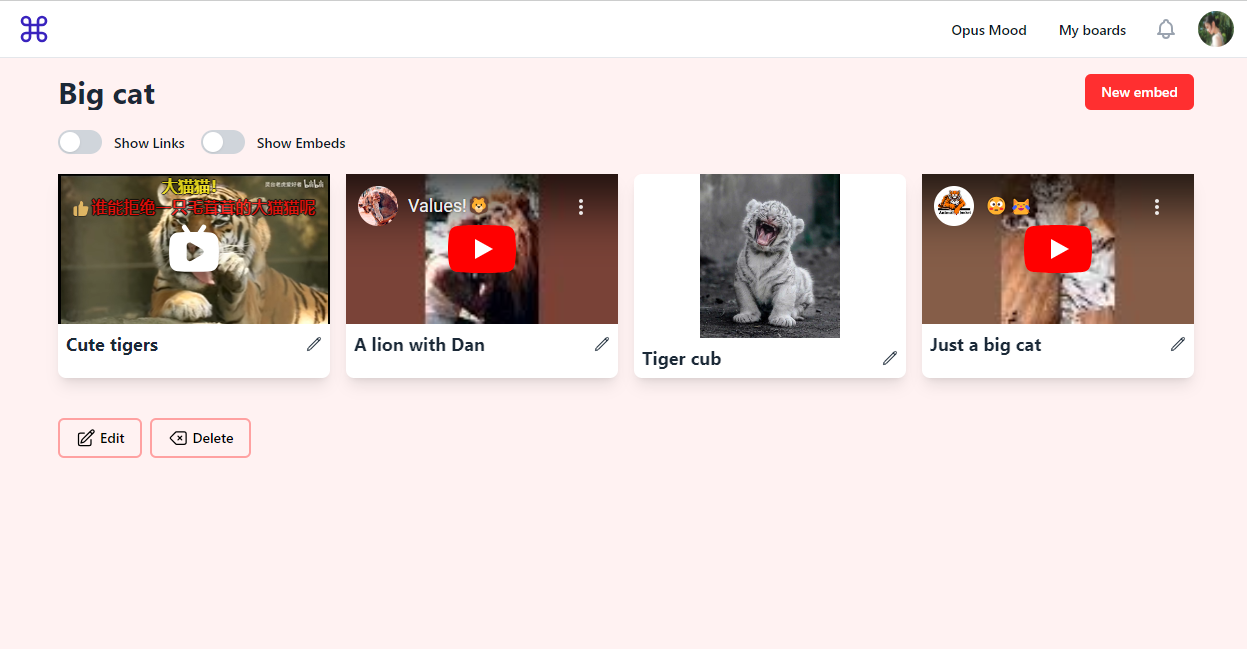
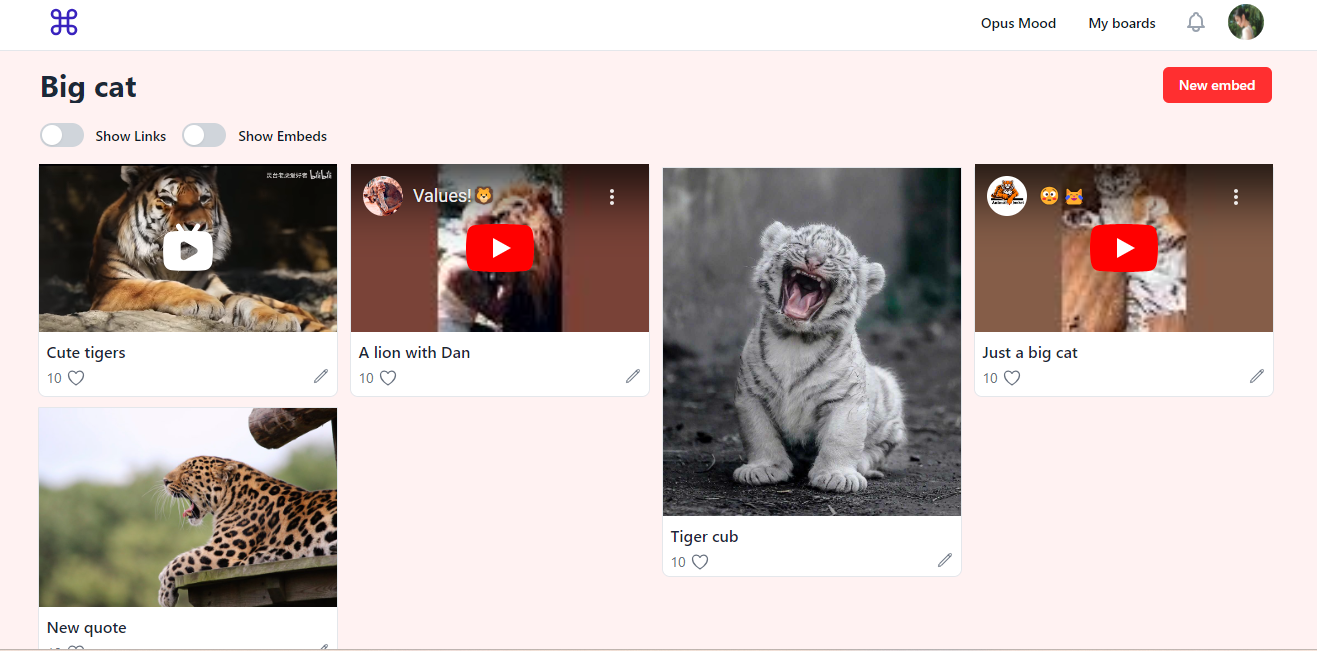
Refector board UI

diff --git a/app/assets/stylesheets/application.tailwind.css b/app/assets/stylesheets/application.tailwind.css
@@ -34,5 +34,16 @@
   }
 }
 
+.board-grid {
+  display: grid;
+  grid-template-columns: repeat(auto-fill, 300px);
+  grid-auto-rows: 30px;
+  grid-column-gap: 12px;
+  justify-content: center;
+}
 
+.card {
+  margin-bottom: 10px;
+  grid-row-end: span 10;
+}
 

diff --git a/app/helpers/embed_helper.rb b/app/helpers/embed_helper.rb
@@ -1,5 +1,20 @@
 module EmbedHelper
+  VIDEO_HEIGHT_SCALE = 6
+  EMBED_INFO_HEIGHT_SCALE = 2
+
   def iframe_media_tag(src, class_names: "")
   	tag.iframe class: class_names, src:"#{src}", allowfullscreen: true
+  end
+
+  # embed card's height = media's height + embed info's height
+  def embed_card_ratio(embed)
+    media_height_scale = if embed.embed_link?
+      VIDEO_HEIGHT_SCALE
+    elsif embed.media_asset.image_ratio > 2
+      20
+    else
+      (embed.embeddable.image_ratio * 10).to_i
+    end
+    media_height_scale + EMBED_INFO_HEIGHT_SCALE
   end
 end

diff --git a/app/models/media_asset.rb b/app/models/media_asset.rb
@@ -11,4 +11,10 @@ class MediaAsset < ApplicationRecord
 
   has_one_attached :media_file
   validates :media_file, presence: true
+
+  def image_ratio
+    media_file.analyze if media_file.attached? && !media_file.analyzed?
+
+    (media_file.metadata['height'].to_f / media_file.metadata['width']).round(1)
+  end
 end

diff --git a/README.md b/README.md
@@ -20,6 +20,7 @@ Mood Opus is a useful tool if you want:
 - Tailwindcss
 - NodeJS + ESbuild
 - Sqlite 3 (current) / Postgresql ( will change in future ) 
+- libvips ( image processing library )
 
 ### Setup
 Install Ruby and Javascript dependencies:
